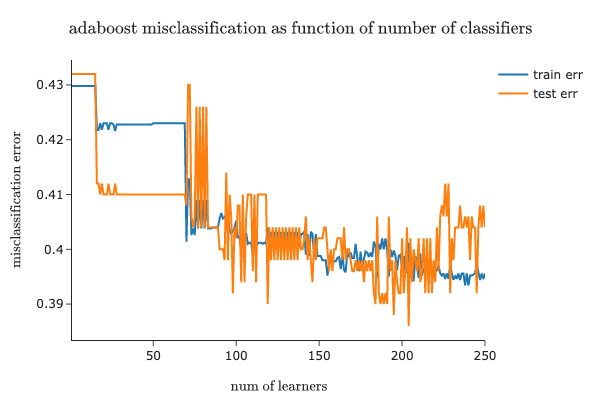
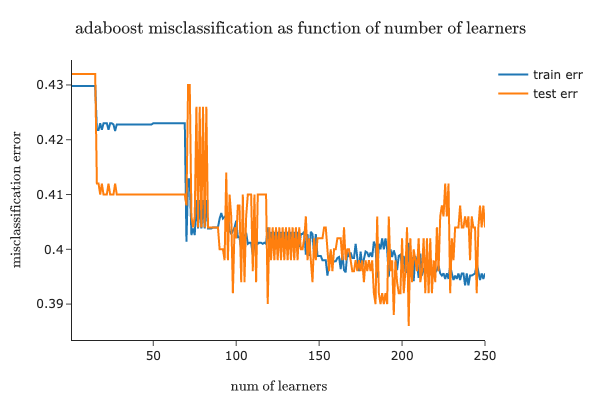
fixing names of graphs

Changed region(s): [[0.12, 0.03, 0.9, 0.09]]

diff --git a/adaboost_scenario.py b/adaboost_scenario.py
@@ -46,7 +46,7 @@ def fit_and_evaluate_adaboost(noise, n_learners=250, train_size=5000, test_size=
         ],
         layout=go.Layout(
             width=600, height=400,
-            title={"x": 0.5, "text": r"$\text{adaboost misclassification as function of number of classifiers}$"},
+            title={"x": 0.5, "text": r"$\text{adaboost misclassification as function of number of learners}$"},
             xaxis_title=r"$\text{num of learners}$",
             yaxis_title=r"$\text{misclassification error}$",
             margin=dict(l=40, r=40, t=60, b=40)
